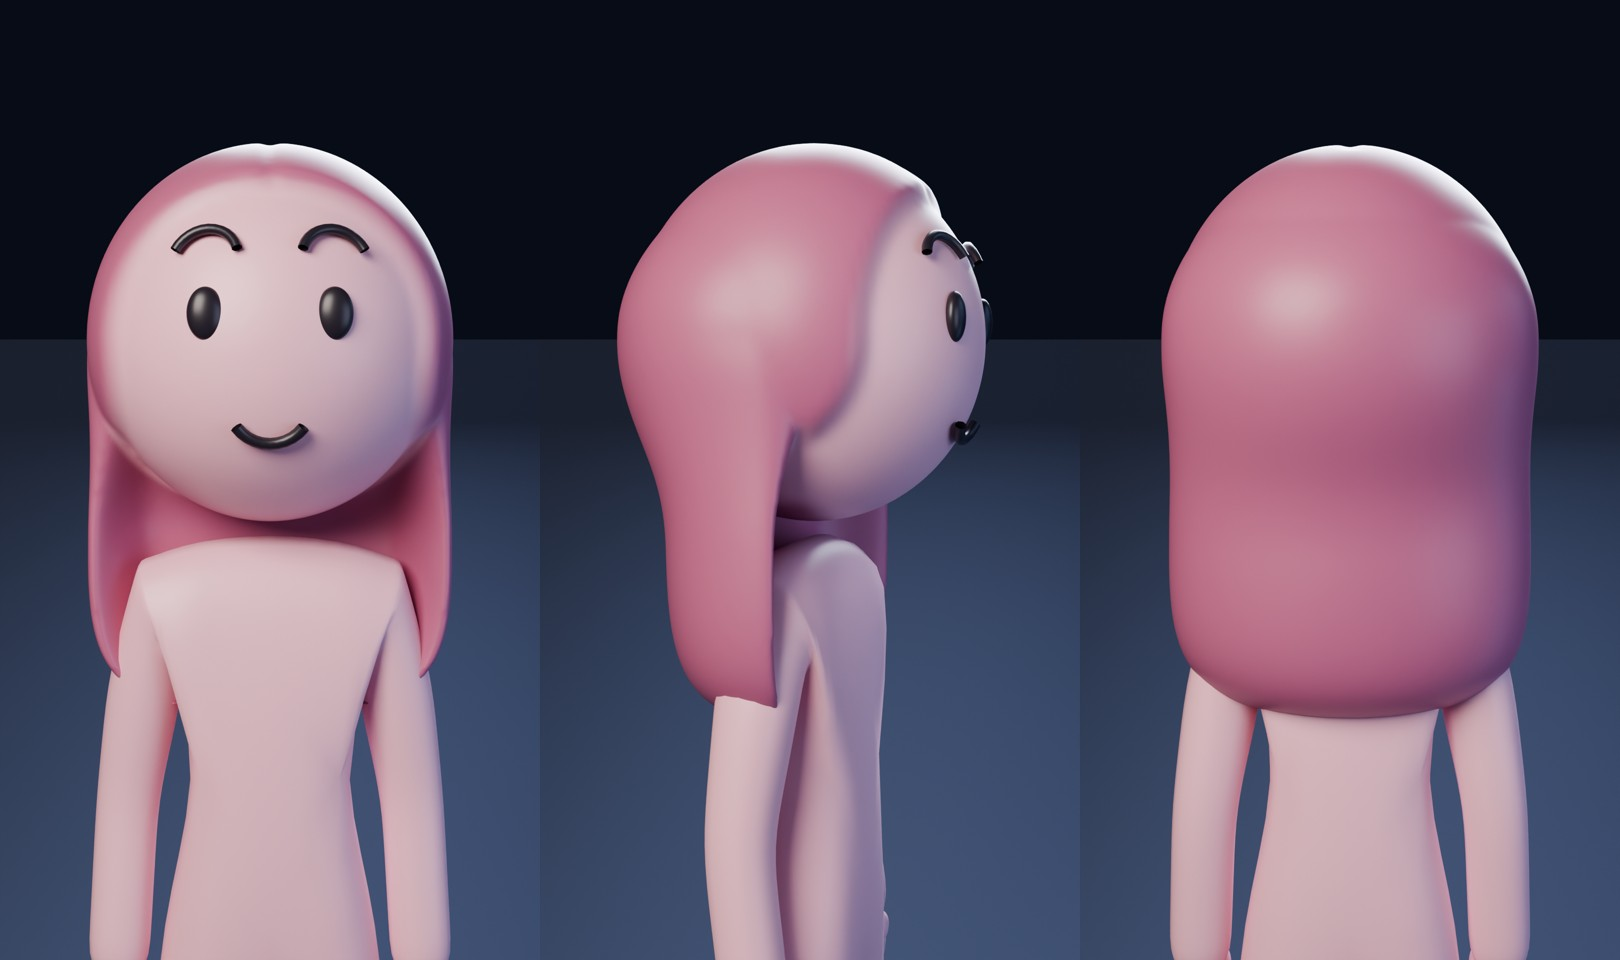
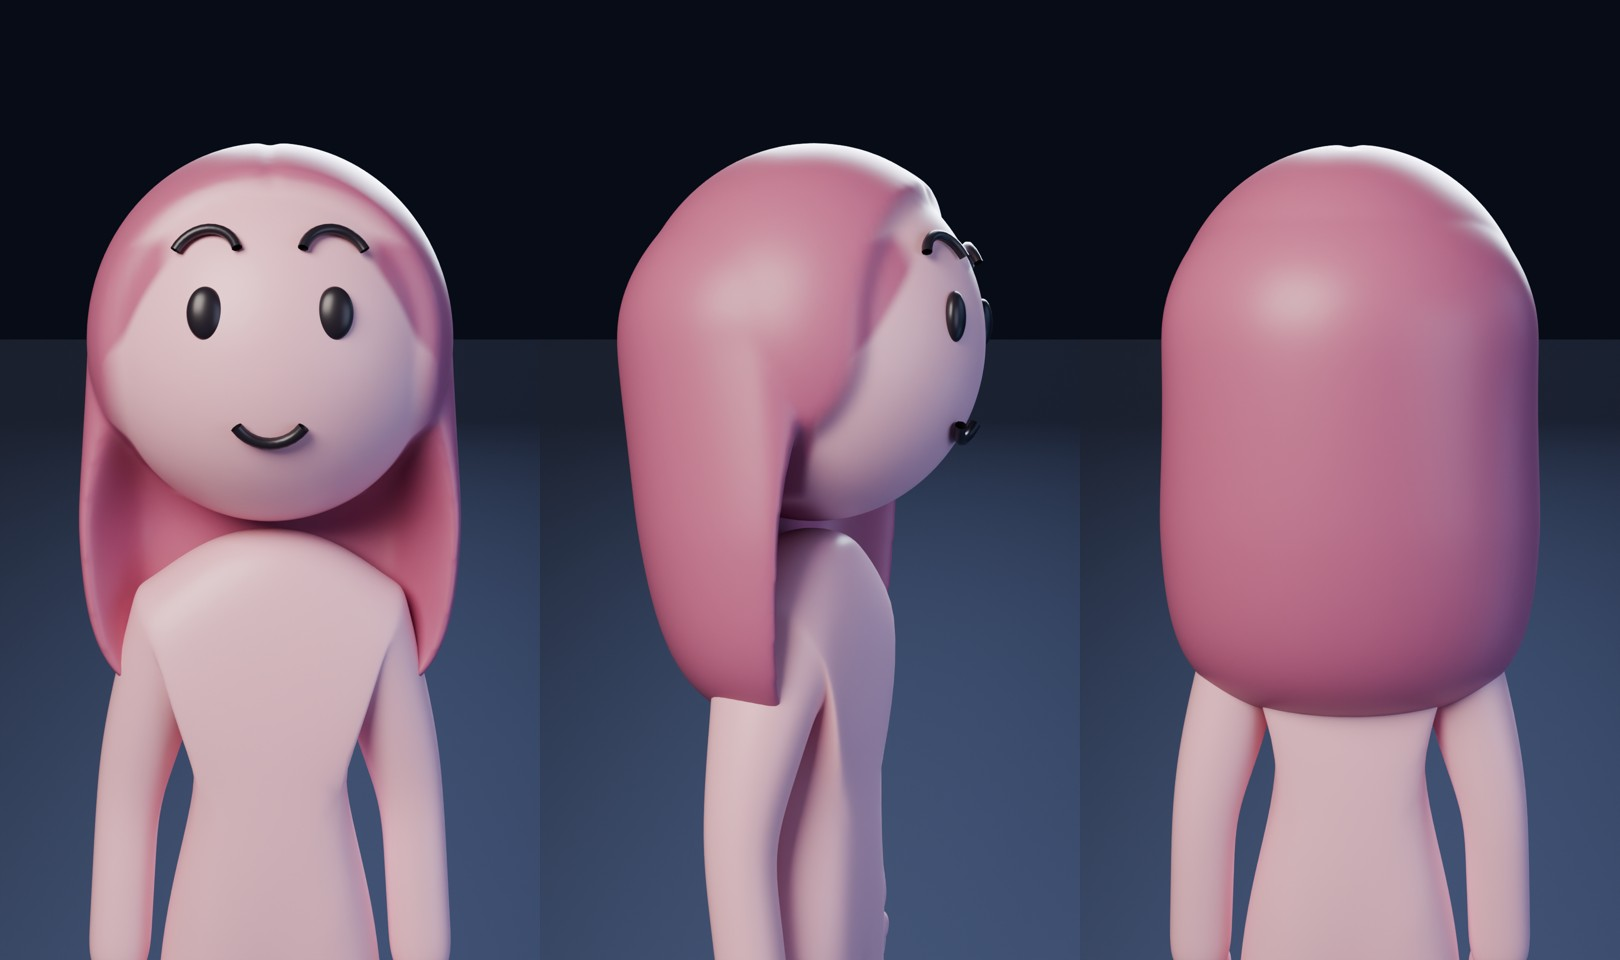
Rounder shoulders; one continuous side hairline from temple to hair ends
Shoulders sit a little lower and are thicker, body subdivided once more.
The hanging hair profile follows one curve from the crown, and the
hair/skin mask on the side of the face now runs diagonally from the
temple to the jaw so it meets the front edge of the hanging hair
without a step. A 'side' render mode gives a quick side close-up.

Claude-Session: https://claude.ai/code/session_019j4rNug1jpN8UbwS8o65rp

diff --git a/blender_figures/figures.py b/blender_figures/figures.py
@@ -79,20 +79,20 @@ def figure(w):
         "pelvis": (0, 0, z(0.82)), "waist": (0, 0.005, z(1.0)), "chest": (0, 0, z(1.16)), "neck": (0, 0, z(1.3)),
         "hipL": (-0.075, 0, z(0.8)), "kneeL": (-0.08, -0.01, z(0.43)), "ankL": (-0.075, 0.0, z(0.06)),
         "hipR": (0.075, 0, z(0.8)), "kneeR": (0.08, -0.01, z(0.43)), "ankR": (0.075, 0.0, z(0.06)),
-        "shL": (-sw, 0, z(1.22)), "elL": (-sw - 0.04, 0.02, z(0.98)), "haL": (-sw - 0.05, -0.01, z(0.77)),
-        "shR": (sw, 0, z(1.22)), "elR": (sw + 0.04, 0.02, z(0.98)), "haR": (sw + 0.05, -0.01, z(0.77)),
+        "shL": (-sw + 0.01, 0, z(1.18)), "elL": (-sw - 0.04, 0.02, z(0.98)), "haL": (-sw - 0.05, -0.01, z(0.77)),
+        "shR": (sw - 0.01, 0, z(1.18)), "elR": (sw + 0.04, 0.02, z(0.98)), "haR": (sw + 0.05, -0.01, z(0.77)),
     }
     E = [("pelvis", "waist"), ("waist", "chest"), ("chest", "neck"), ("pelvis", "hipL"), ("hipL", "kneeL"), ("kneeL", "ankL"),
          ("pelvis", "hipR"), ("hipR", "kneeR"), ("kneeR", "ankR"), ("chest", "shL"), ("shL", "elL"), ("elL", "haL"),
          ("chest", "shR"), ("shR", "elR"), ("elR", "haR")]
     r = {"pelvis": ((0.112 if w else 0.105), 0.08), "waist": ((0.072 if w else 0.11), 0.068), "chest": ((0.1 if w else 0.135), (0.075 if w else 0.088)),
          "neck": 0.045 * k, "hipL": 0.062 * k, "kneeL": 0.046 * k, "ankL": 0.035 * k, "hipR": 0.062 * k, "kneeR": 0.046 * k, "ankR": 0.035 * k,
-         "shL": 0.046 * k, "elL": 0.034 * k, "haL": 0.033 * k, "shR": 0.046 * k, "elR": 0.034 * k, "haR": 0.033 * k}
+         "shL": 0.06 * k, "elL": 0.034 * k, "haL": 0.033 * k, "shR": 0.06 * k, "elR": 0.034 * k, "haR": 0.033 * k}
     N = list(P)
     m = PINK if w else BLUE
     T = 1.16
     r = {n: ((v[0] * T, v[1] * T) if isinstance(v, tuple) else v * T) for n, v in r.items()}
-    skin("body", [P[n] for n in N], [(N.index(a), N.index(b)) for a, b in E], [r[n] for n in N], m)
+    skin("body", [P[n] for n in N], [(N.index(a), N.index(b)) for a, b in E], [r[n] for n in N], m, sub=3)
     # mitten hands with a small thumb, rounded feet
     for s in (-1, 1):
         hx = s * (sw + 0.05)
@@ -159,9 +159,11 @@ def figure(w):
             zz = -L * s ** 0.85
             env = 1.13 * R * max(0.0, 1 - (zz / (1.13 * R)) ** 2) ** 0.5   # around the skull: stay just outside the head
             def smax(p_, q_, k_=0.12 * R): return (p_ + q_ + ((p_ - q_) ** 2 + k_ * k_) ** 0.5) / 2
-            rx = smax(R * (1.0 + 0.10 * s) * rho, env)                  # width: head-wide, slightly fuller at the ends
+            tt = min(1.0, -zz / L)                                      # 0 at the head centre .. 1 at the ends
+            rx = R * (1.13 - 0.06 * tt) * rho                           # width: one smooth line from the head down
+
             x = h.x * rx
-            yb = smax(R * 0.80 * rho, env)                              # depth at the back
+            yb = R * (1.13 - 0.36 * tt ** 1.4) * rho                    # back profile: one convex curve from the crown to the ends
             if h.y >= 0:
                 y = h.y * yb
             else:   # front half: same depth at the sides (no crease), then curves back behind the neck in the middle
@@ -194,6 +196,9 @@ def figure(w):
         for v, c in zip(head.data.vertices, head.data.color_attributes["hairmask"].data):
             q = Mw @ v.co - H; dist = q.length
             hm_ = max(c.color[0], sstep(1.02 * R, 1.07 * R, dist), sstep(-0.82 * R, -0.95 * R, q.z) * sstep(-0.25 * R, -0.05 * R, q.y))
+            # side hairline: one line from the temple down the cheek into the front edge of the hanging hair
+            yl = -0.10 * R - 0.65 * R * sstep(-1.1 * R, 0.5 * R, q.z)
+            hm_ = max(hm_, sstep(yl - 0.03 * R, yl + 0.03 * R, q.y) * sstep(0.45 * R, 0.6 * R, abs(q.x)) * (1 - sstep(0.45 * R, 0.6 * R, q.z)))
             c.color = (hm_, hm_, hm_, 1)
         head.data.materials.clear(); head.data.materials.append(hm); smooth(head)
     else:
@@ -247,9 +252,11 @@ def shoot(pos, tgt, path):
     sc.render.filepath = path; bpy.ops.render.render(write_still=True); print("DONE", path)
 
 
-shoot((0.0, -3.9, 1.1), (0, 0, 0.92), PRE + "_front.png")
+if not (len(argv) > 3 and argv[3] == "side"): shoot((0.0, -3.9, 1.1), (0, 0, 0.92), PRE + "_front.png")
 her.rotation_euler = (0, 0, math.radians(150)); him.rotation_euler = (0, 0, math.radians(-150))
-shoot((0.0, -3.9, 1.1), (0, 0, 0.92), PRE + "_back.png")
+if not (len(argv) > 3 and argv[3] == "side"): shoot((0.0, -3.9, 1.1), (0, 0, 0.92), PRE + "_back.png")
+if len(argv) > 3 and argv[3] == "side":            # quick: only her side close-up
+    her.rotation_euler = (0, 0, math.radians(70)); shoot((-0.38, -1.5, 1.45), (-0.38, 0, 1.35), PRE + "_cu_side.png")
 if len(argv) > 3 and argv[3] == "cu":               # close-ups of her head (front, back, side)
     her.rotation_euler = (0, 0, 0); hz = her.location.z + 1.5
     for nm, ang in (("cu_front", 0), ("cu_side", 70), ("cu_back", 180)):
